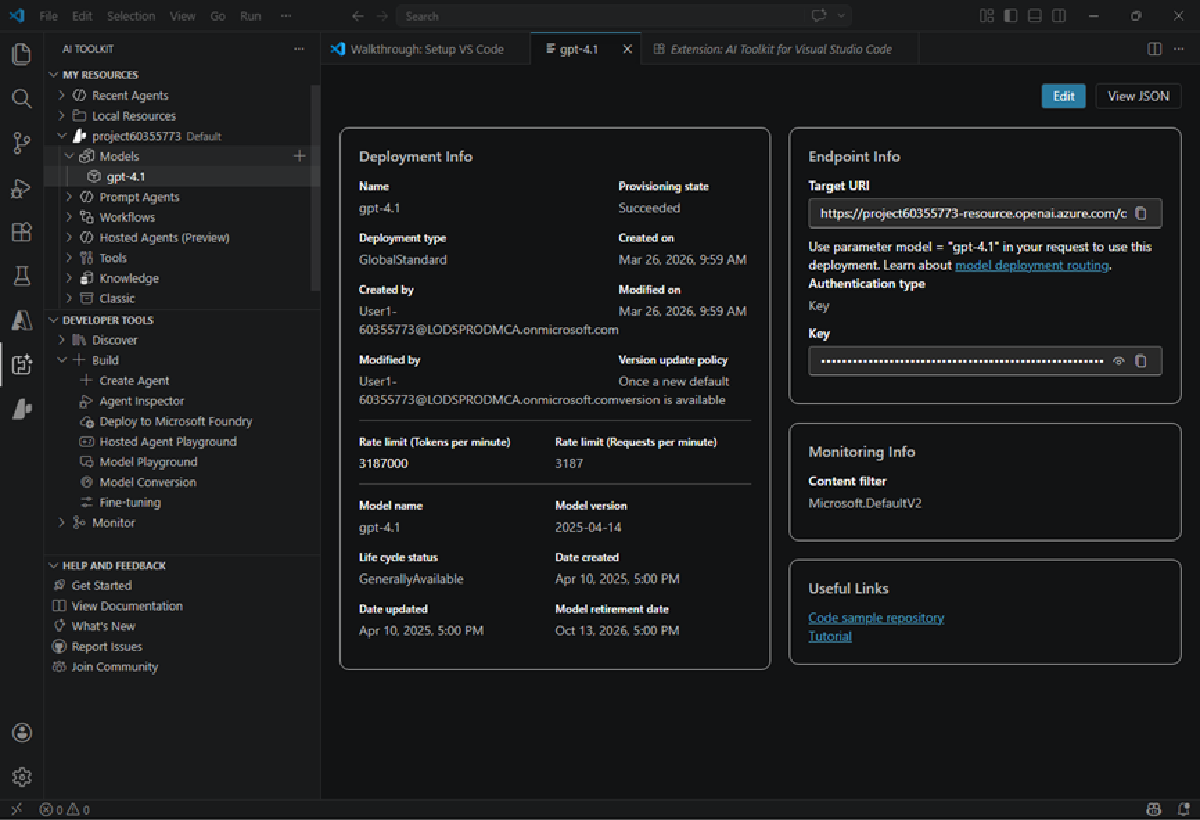
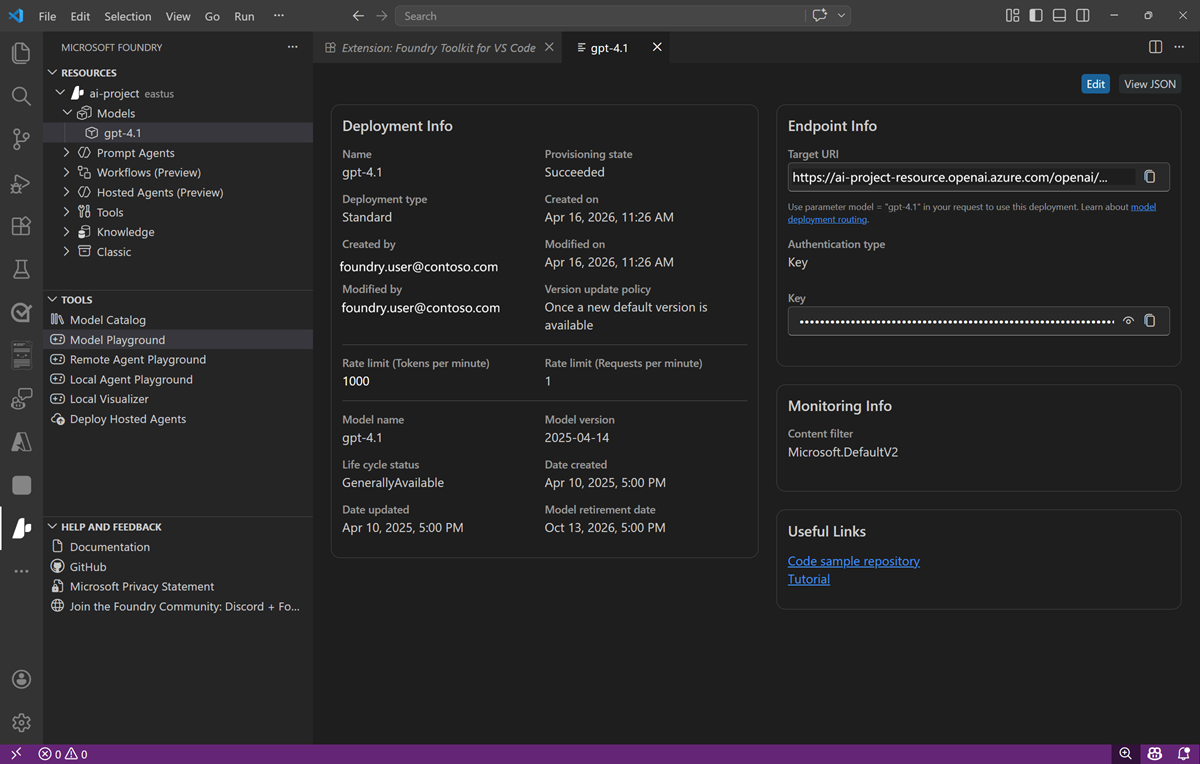
Updated Foundry Extension

Changed region(s): [[0.0, 0.0, 1.0, 1.0]]

diff --git a/Instructions/Exercises/01-Explore-ai-studio.md b/Instructions/Exercises/01-Explore-ai-studio.md
@@ -112,27 +112,25 @@ At the core of any generative AI project, there's at least one generative AI mod
     - The *project endpoint* is used to access models provided directly in Foundry (including OpenAI models) using the OpenAI **Responses** API, and to access Foundry-specific APIs (such as the Foundry Agent service).
     - The *OpenAI endpoint* is used to access models using OpenAI APIs, including the **Chat Completions** API and the **Responses** API.
 
-## Install the AI Toolkit extension for Visual Studio Code
+## Install the Foundry Toolkit extension for Visual Studio Code
 
-As a developer, you may spend some time working in the Foundry portal; but you're also likely to spend a lot of time in Visual Studio Code. The AI Toolkit extension provides a convenient way to work with Foundry project resources without leaving the development environment.
+As a developer, you may spend some time working in the Foundry portal; but you're also likely to spend a lot of time in Visual Studio Code. The Foundry Toolkit extension provides a convenient way to work with Foundry project resources without leaving the development environment.
 
 1. Open Visual Studio Code, and in the navigation bar on the left, view the **Extensions** page.
 
-    ![Screenshot of the Visual Studio Code extensions page.](../media/vscode-extensions.png)
+1. Search the extensions marketplace for `Foundry Toolkit`, and install the **Foundry Toolkit for VS Code** extension.
+1. After installing the extension, select the **Microsoft Foundry** page in the left navigation bar.
 
-1. Search the extensions marketplace for `AI Toolkit`, and install the **AI Toolkit** extension.
-1. After installing the extension, select its page in the left navigation bar.
+    ![Screenshot of the Foundry Toolkit Visual Studio Code extension.](../media/foundry-vs-extension.png)
 
-    ![Screenshot of the AI Toolkit Visual Studio Code extension.](../media/foundry-vs-extension.png)
-
-1. In the AI Toolkit pane, use the **Set default project** button to connect to Azure (signing in with your credentials) and select the Foundry project you created previously.
-1. After setting the default project, in the AI Toolkit pane, expand the project, expand **Models**, and select the **gpt-4.1** model you deployed previously.
+1. In the Foundry Toolkit pane, set the default project by connecting to Azure (signing in with your credentials) and selecting the Foundry project you created previously.
+1. After setting the default project, expand the project, expand **Models**, and select the **gpt-4.1** model you deployed previously.
 
     You can view the model deployment details here.
 
-    ![Screenshot of a model in the  AI Toolkit Visual Studio Code extension.](../media/vscode-extension-model.png)
+    ![Screenshot of a model in the  Foundry Toolkit Visual Studio Code extension.](../media/vscode-extension-model.png)
 
-1. In the AI Toolkit pane, in the **Developer Tools** section, select **Model playground** and select the **gpt-4.1** model.
+1. In the Foundry Toolkit pane, in the **Tools** section, select **Model playground** and select the **gpt-4.1** model.
 
     An interactive playground in which you can test the model is opened in Visual Studio Code.
 
